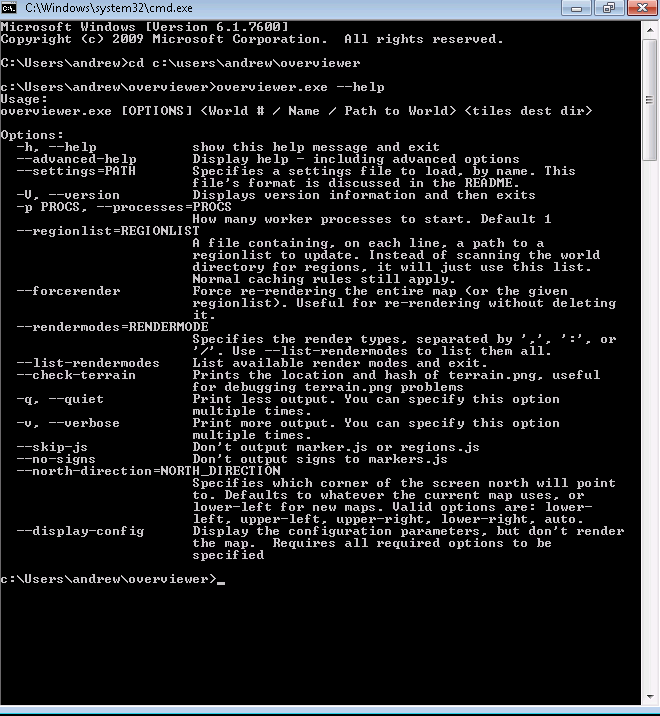
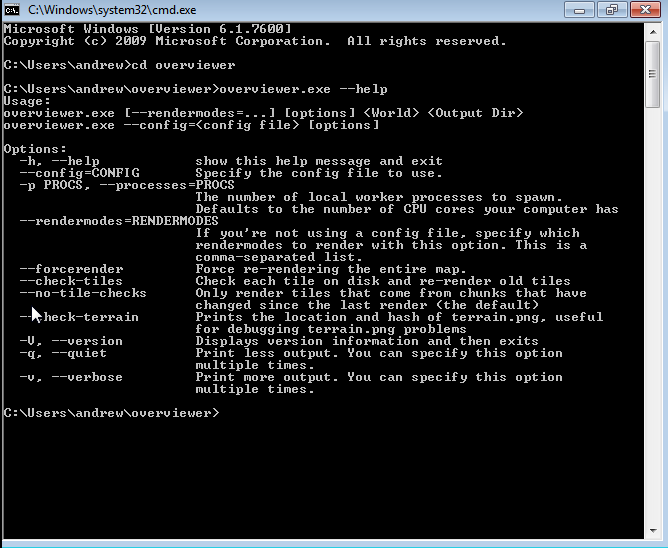
updated windows guide

Changed region(s): [[0.0, 0.0, 1.0, 1.0], [0.8182, 0.2172, 0.8788, 0.2482], [0.7879, 0.1551, 0.8182, 0.1861]]

diff --git a/docs/win_tut/windowsguide.rst b/docs/win_tut/windowsguide.rst
@@ -103,24 +103,29 @@ to run it. It's kind of long, I had to make my window larger to show it all.
 ::
 
     Usage:
-    overviewer.exe [OPTIONS] <World # / Name / Path to World> <tiles dest dir>
+    overviewer.exe [--rendermodes=...] [options] <World> <Output Dir>
 
 Command line tool usage convention says that items in [square brackets] are
 *optional*, while items in <angled brackets> are *required*.
 
 **Step 5** Render a map!
     Okay, so to render a map, you have to run ``overviewer.exe`` with two
-    *parameters*: the *world name* and a *destination directory*.
+    *parameters*: the *world path* and a *destination directory*.
 
     Let's say you have a world named "Singleplayer world" and you want to put
-    the tiles into a directory on your desktop. Try typing this into the command
-    prompt::
+    the tiles into a directory on your desktop. Singleplayer worlds are stored
+    on your hard drive at a location called ``%appdata%\.minecraft\saves``. Try
+    typing this into the command prompt::
 
-        overviewer.exe "Singleplayer world" c:\users\andrew\desktop\mymap
+        overviewer.exe "%appdata%\.minecraft\saves\Singleplayer World" c:\users\andrew\desktop\mymap
 
     .. note::
-        You can also use a path to your world instead of a world name if you
-        know where it's stored. World names only work for single-player worlds.
+        You must use quotation marks around a path that has spaces in it.
+
+    .. note::
+        ``%appdata%`` is a special windows "variable" that refers to the
+        location on your drive where applications can store their data. Typing
+        ``%appdata%`` instead of the full path is a convenient shortcut.
 
     If everything went according to plan, The Overviewer should now be churning
     away furiously on your world, rendering thousands of image files that
@@ -134,6 +139,8 @@ Overviewer. Sorry there's no easy-to-use graphical interface right now. We want
 to make one, we really do, but we haven't had the time and the talent to do so
 yet.
 
-As a next step, head to the :doc:`../options` page to see what else The Overviewer
-can do. And as always, feel free to drop by in `IRC
-<http://overviewer.org/irc/>`_ if you have any questions! We're glad to help!
+The preferred way to run The Overviewer is with a *configuration file*. Without
+one, you can only do the most basic of renders. Once you're ready, head to the
+:doc:`../config` page to see what else The Overviewer can do. And as always,
+feel free to drop by in `IRC <http://overviewer.org/irc/>`_ if you have any
+questions! We're glad to help!
